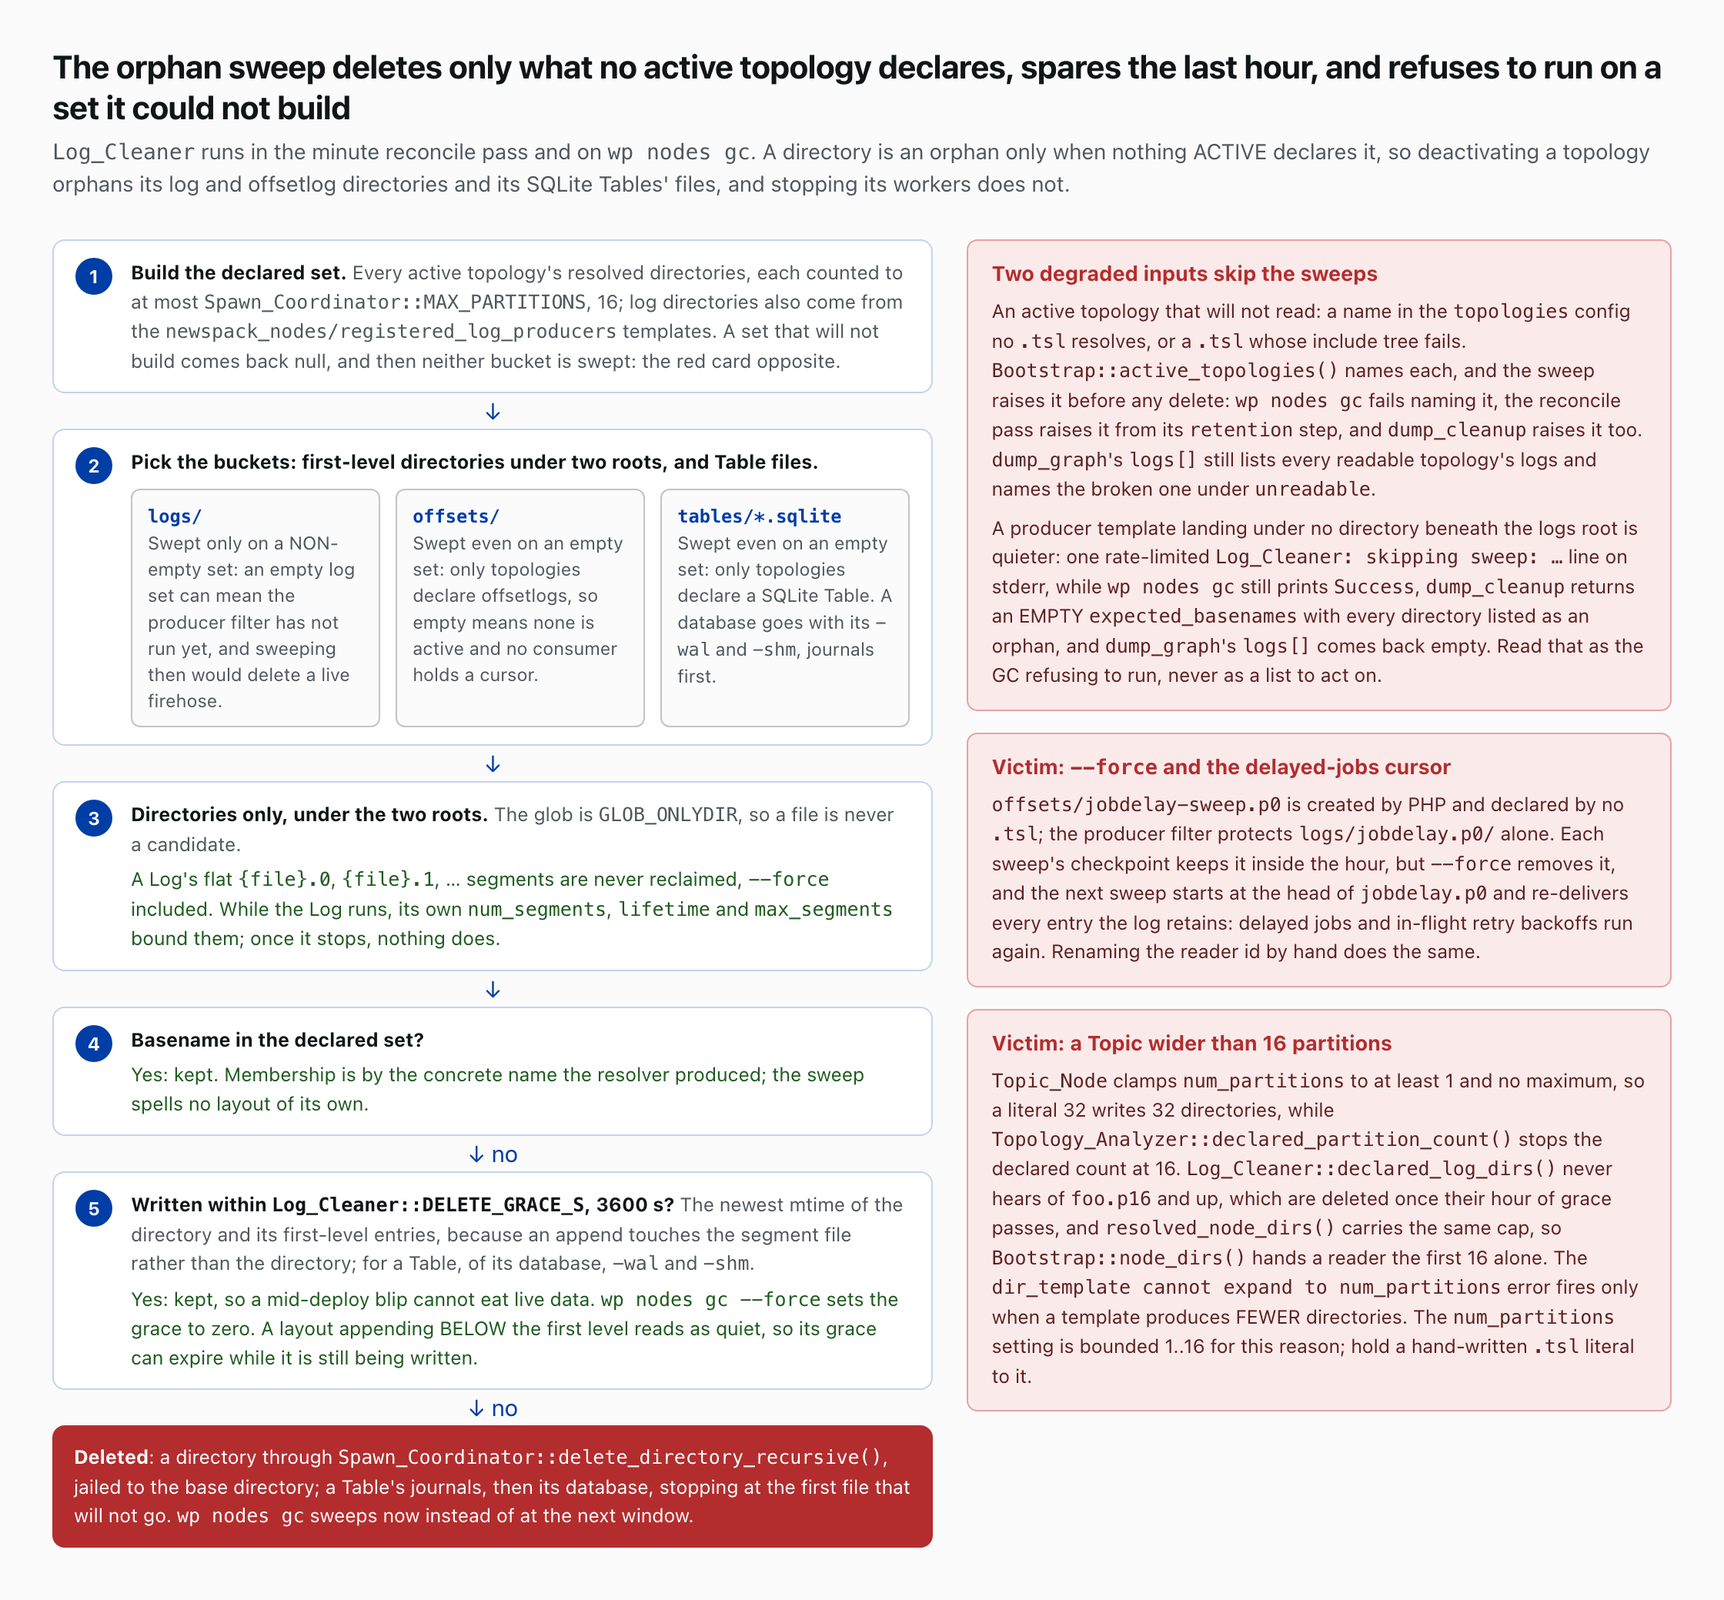
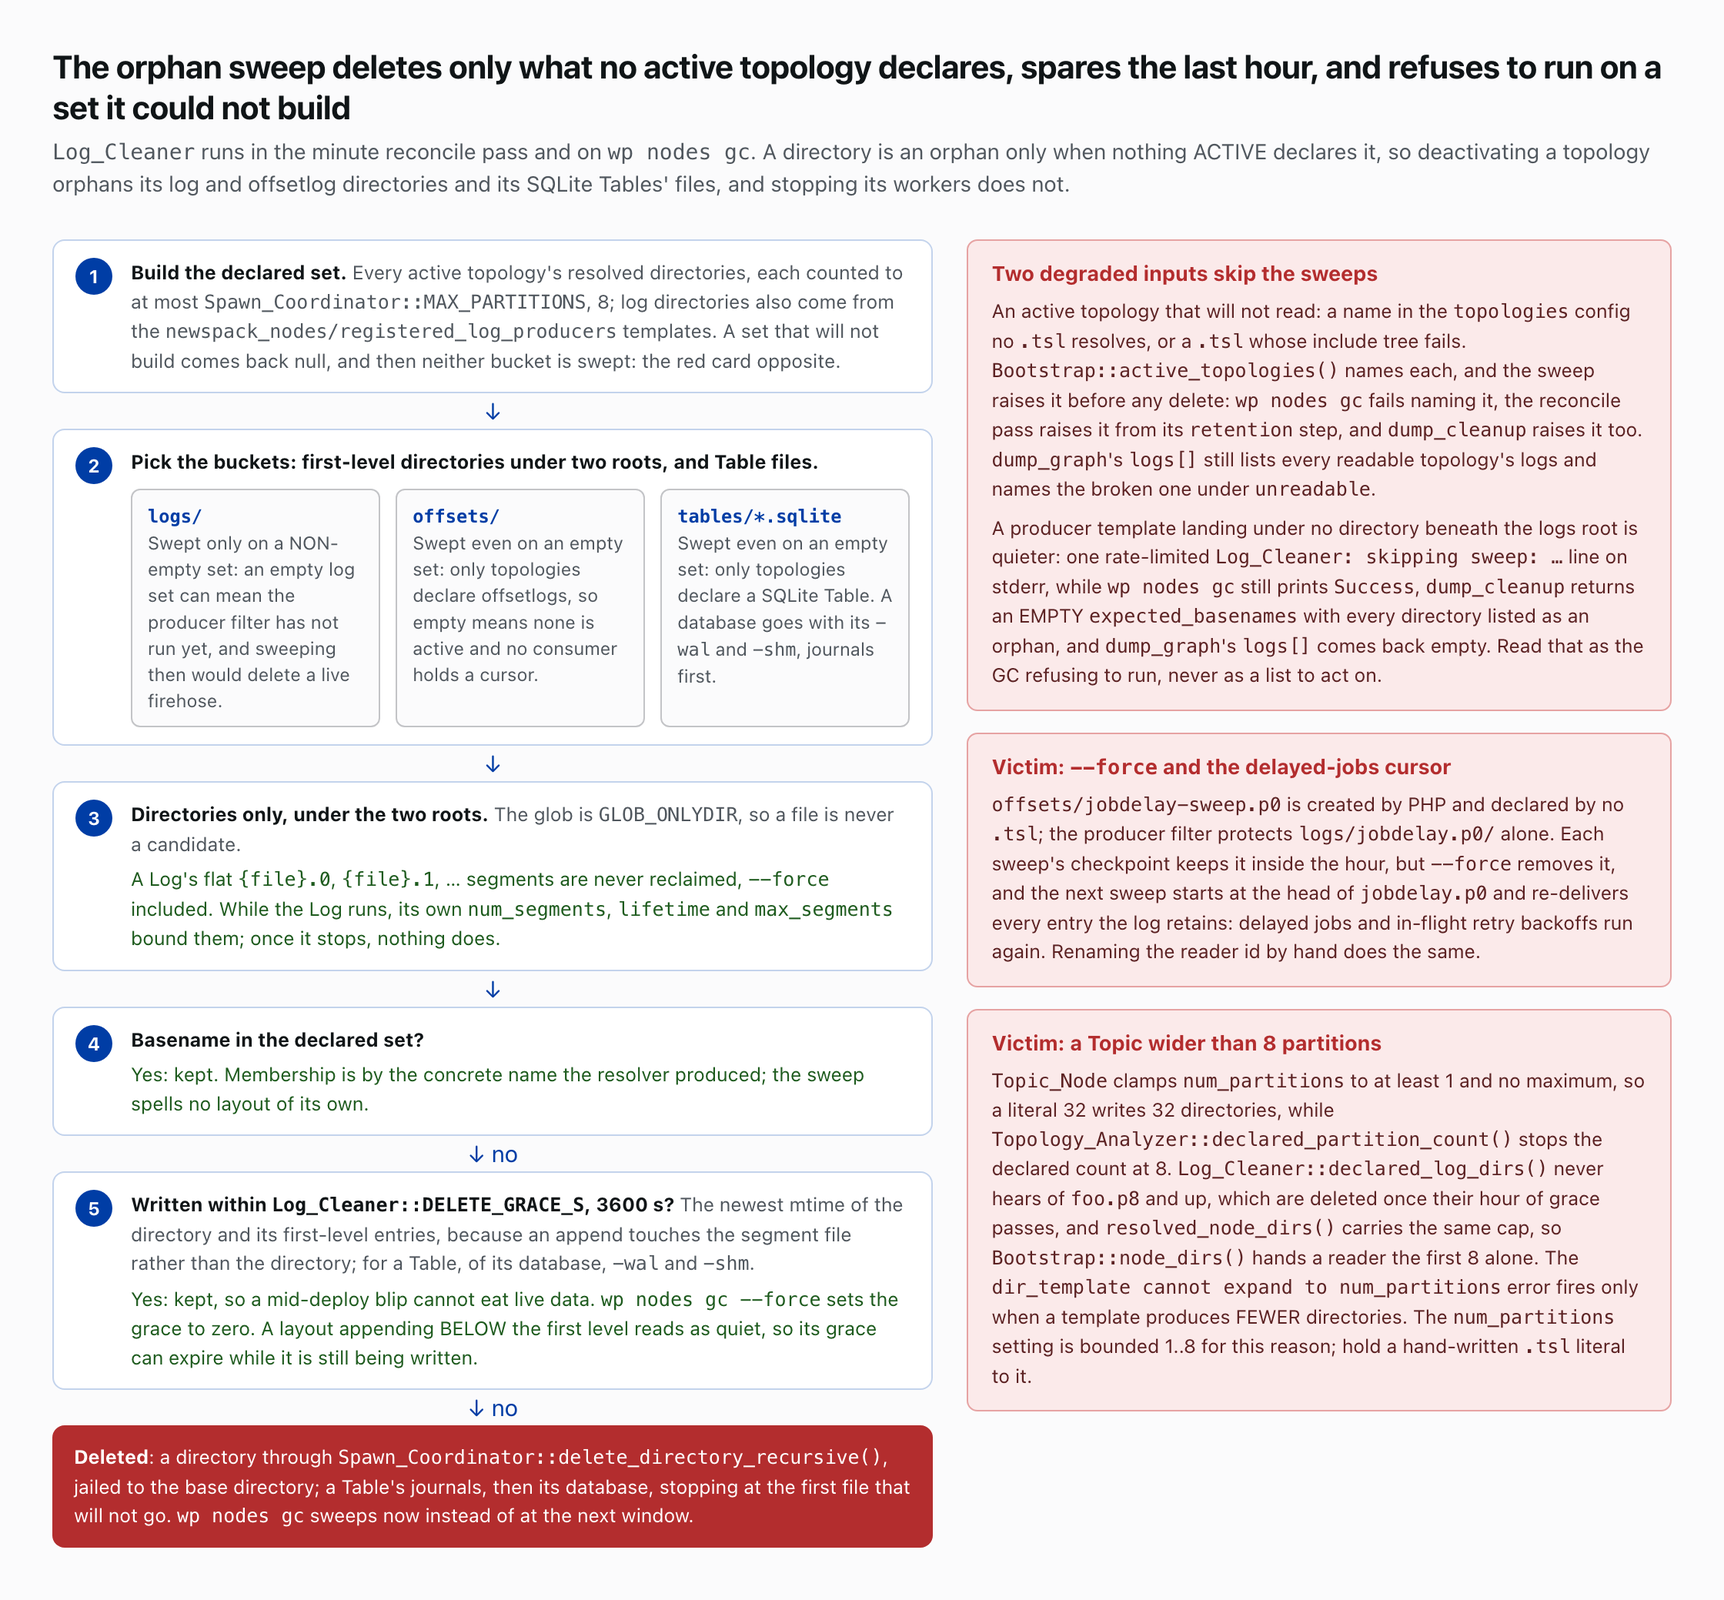
feat(partitions)!: cap num_partitions at 8
A row reader attaches every partition's SQLite file into one connection,
and SQLite attaches at most ten. Spawn_Coordinator::MAX_PARTITIONS drops
from 16 to 8 and the num_partitions field reads it, so the settings page,
the settings verb and every spawn clamp hold one bound.

diff --git a/docs/img/ts-orphan-sweep.html b/docs/img/ts-orphan-sweep.html
@@ -19,7 +19,7 @@
 
 <div class="grid">
 <div>
-  <div class="step"><span class="n">1</span><span><b>Build the declared set.</b> Every active topology's resolved directories, each counted to at most <span class="mono">Spawn_Coordinator::MAX_PARTITIONS</span>, 16; log directories also come from the <span class="mono">newspack_nodes/registered_log_producers</span> templates. A set that will not build comes back null, and then neither bucket is swept: the red card opposite.</span></div>
+  <div class="step"><span class="n">1</span><span><b>Build the declared set.</b> Every active topology's resolved directories, each counted to at most <span class="mono">Spawn_Coordinator::MAX_PARTITIONS</span>, 8; log directories also come from the <span class="mono">newspack_nodes/registered_log_producers</span> templates. A set that will not build comes back null, and then neither bucket is swept: the red card opposite.</span></div>
   <div class="dn">↓</div>
   <div class="step"><span class="n">2</span><span><b>Pick the buckets: first-level directories under two roots, and Table files.</b>
     <span class="buckets">
@@ -48,8 +48,8 @@
     <p><span class="mono">offsets/jobdelay-sweep.p0</span> is created by PHP and declared by no <span class="mono">.tsl</span>; the producer filter protects <span class="mono">logs/jobdelay.p0/</span> alone. Each sweep's checkpoint keeps it inside the hour, but <span class="mono">--force</span> removes it, and the next sweep starts at the head of <span class="mono">jobdelay.p0</span> and re-delivers every entry the log retains: delayed jobs and in-flight retry backoffs run again. Renaming the reader id by hand does the same.</p>
   </div>
   <div class="callout">
-    <h4>Victim: a Topic wider than 16 partitions</h4>
-    <p><span class="mono">Topic_Node</span> clamps <span class="mono">num_partitions</span> to at least 1 and no maximum, so a literal 32 writes 32 directories, while <span class="mono">Topology_Analyzer::declared_partition_count()</span> stops the declared count at 16. <span class="mono">Log_Cleaner::declared_log_dirs()</span> never hears of <span class="mono">foo.p16</span> and up, which are deleted once their hour of grace passes, and <span class="mono">resolved_node_dirs()</span> carries the same cap, so <span class="mono">Bootstrap::node_dirs()</span> hands a reader the first 16 alone. The <span class="mono">dir_template cannot expand to num_partitions</span> error fires only when a template produces FEWER directories. The <span class="mono">num_partitions</span> setting is bounded 1..16 for this reason; hold a hand-written <span class="mono">.tsl</span> literal to it.</p>
+    <h4>Victim: a Topic wider than 8 partitions</h4>
+    <p><span class="mono">Topic_Node</span> clamps <span class="mono">num_partitions</span> to at least 1 and no maximum, so a literal 32 writes 32 directories, while <span class="mono">Topology_Analyzer::declared_partition_count()</span> stops the declared count at 8. <span class="mono">Log_Cleaner::declared_log_dirs()</span> never hears of <span class="mono">foo.p8</span> and up, which are deleted once their hour of grace passes, and <span class="mono">resolved_node_dirs()</span> carries the same cap, so <span class="mono">Bootstrap::node_dirs()</span> hands a reader the first 8 alone. The <span class="mono">dir_template cannot expand to num_partitions</span> error fires only when a template produces FEWER directories. The <span class="mono">num_partitions</span> setting is bounded 1..8 for this reason; hold a hand-written <span class="mono">.tsl</span> literal to it.</p>
   </div>
 </div>
 </div>

diff --git a/docs/img/api-spawn-handshake.html b/docs/img/api-spawn-handshake.html
@@ -47,7 +47,7 @@
 
 <div class="hop" data-span="2,4"><span class="n">4</span><b>Validator B, a person.</b> <span class="mono">Capabilities::can( MANAGE )</span>, then <span class="mono">wp_verify_nonce( $nonce, 'newspack_nodes_spawn_worker' )</span>, then <span class="mono">Rate_Limit::claim()</span>: one slot per user, taken by an atomic cache <span class="mono">add()</span> and held 2 s. Capability comes before the claim, so an unauthenticated burst spends no slots. Neither validator: <span class="red">403 invalid_token</span>; inside 2 s: <span class="red">429 rate_limited</span>; with no shared cache to answer, admitted unmetered with a warning.</div>
 
-<div class="hop deny" data-arrow="2,3" data-cap="authorized" data-span="2,4"><span class="n">5</span>In order: <span class="mono">400 invalid_partition</span> (negative, at or above <span class="mono">MAX_PARTITIONS</span> = 16, or past the type's active count); <span class="mono">409 fleet_held</span> while a deploy hold stands in <span class="mono">Spawn_Coordinator::HOLD_OPTION</span>; <span class="mono">429 spawn_throttled</span> while <span class="mono">{type}|{partition}</span> sits inside the shared 15 s window.</div>
+<div class="hop deny" data-arrow="2,3" data-cap="authorized" data-span="2,4"><span class="n">5</span>In order: <span class="mono">400 invalid_partition</span> (negative, at or above <span class="mono">MAX_PARTITIONS</span> = 8, or past the type's active count); <span class="mono">409 fleet_held</span> while a deploy hold stands in <span class="mono">Spawn_Coordinator::HOLD_OPTION</span>; <span class="mono">429 spawn_throttled</span> while <span class="mono">{type}|{partition}</span> sits inside the shared 15 s window.</div>
 
 <div class="hop run" data-span="2,4"><span class="n">6</span>Accepted. Record the spawn against the 15 s throttle, in memory and in the shared cache at twice the window; <span class="mono">ignore_user_abort( true )</span> and <span class="mono">set_time_limit( 0 )</span>; write <span class="mono">$_SERVER['NEWSPACK_NODES_WORKER_TYPE']</span> and <span class="mono">…_PARTITION</span>; fire <span class="mono">newspack_nodes/spawn_worker( $type, $partition )</span>.</div>
 

diff --git a/docs/img/ag-config-save.html b/docs/img/ag-config-save.html
@@ -40,7 +40,7 @@
 </div>
 
 <div class="doors">
-  <div class="d1"><h4>Door 1 · the settings page</h4><span class="mono">Field::sanitize_callback()</span> CLAMPS a bounded int silently: 900 typed into Num Partitions stores 16 with no notice. Every rendered numeric setting declares an inclusive min and max, and the bounds bind at the two doors alone, never on read.</div>
+  <div class="d1"><h4>Door 1 · the settings page</h4><span class="mono">Field::sanitize_callback()</span> CLAMPS a bounded int silently: 900 typed into Num Partitions stores 8 with no notice. Every rendered numeric setting declares an inclusive min and max, and the bounds bind at the two doors alone, never on read.</div>
   <div class="d2"><h4>Door 2 · the <span class="mono">settings</span> verb</h4><span class="mono">Settings_CI_Node::cmd_set()</span> REFUSES with <span class="mono">invalid value for setting: &lt;key&gt;</span>, because a programmatic caller must be told rather than handed another number. A <span class="mono">set</span> to the value already stored is a no-op, so Settings_Sync's sweep never recycles the fleet.</div>
   <div class="d3"><h4>No door · a file or a direct option write</h4>Taken as written, and nothing clamps it: <span class="mono">Partition_Node</span> throws only below a <span class="mono">segment_size</span> of 1, so a config file naming 5 gives five-byte segments. <span class="mono">SSE_Slot_Pool</span> is the one family that re-clamps on read.</div>
 </div>

diff --git a/src/topology-console/components/__tests__/TopologySettingsPanel.test.js b/src/topology-console/components/__tests__/TopologySettingsPanel.test.js
@@ -117,12 +117,12 @@ describe( 'TopologySettingsPanel', () => {
 		expect( input.getAttribute( 'placeholder' ) ).toBe( '2' );
 	} );
 
-	it( 'clamps partitions to 1..16 and commits', () => {
+	it( 'clamps partitions to 1..8 and commits', () => {
 		const { interpreter } = setup( {} );
 		fireEvent.change( screen.getByLabelText( /partitions/i ), {
-			target: { value: '99' },
+			target: { value: '13' },
 		} );
-		expect( interpreter.frontmatter ).toEqual( { num_partitions: '16' } );
+		expect( interpreter.frontmatter ).toEqual( { num_partitions: '8' } );
 	} );
 
 	it( 'clearing partitions removes the key (config default)', () => {

diff --git a/src/topology-console/components/TopologySettingsPanel.js b/src/topology-console/components/TopologySettingsPanel.js
@@ -48,7 +48,7 @@ const NAME_RE = /^[a-zA-Z_][a-zA-Z0-9_]*$/;
  * `Bootstrap` clamps to it while expanding workers, so a larger declared count
  * spawns nothing extra and only misleads whoever reads the file.
  */
-const MAX_PARTITIONS = 16;
+const MAX_PARTITIONS = 8;
 
 /**
  * The frontmatter map as `[ name, value ]` pairs, in the map's own order.

diff --git a/tests/unit/Admin/AdminTest.php b/tests/unit/Admin/AdminTest.php
@@ -159,10 +159,10 @@ class AdminTest extends TestCase {
 
 		$cb = $GLOBALS['_registered_settings']['newspack_nodes_num_partitions']['args']['sanitize_callback'];
 
-		$this->assertSame( 16, \call_user_func( $cb, '4177' ), 'above max must clamp to the declared max' );
+		$this->assertSame( 8, \call_user_func( $cb, '4177' ), 'above max must clamp to the declared max' );
 		$this->assertSame( 1, \call_user_func( $cb, '0' ), 'below min must clamp to the declared min' );
 		$this->assertSame( 1, \call_user_func( $cb, '-9' ) );
-		$this->assertSame( 9, \call_user_func( $cb, '9' ), 'an in-range value passes through' );
+		$this->assertSame( 7, \call_user_func( $cb, '7' ), 'an in-range value passes through' );
 	}
 
 	public function test_register_settings_clamps_the_remote_options_from_the_same_declaration(): void {
@@ -751,7 +751,7 @@ public function test_storage_section_callback_outputs_paragraph(): void {
 		$this->assertStringContainsString( 'max="' . \PHP_INT_MAX . '"', $html );
 	}
 
-	// ---- num_partitions_callback (render_number_field, max=16 → small-text) --
+	// ---- num_partitions_callback (render_number_field, max=8 → small-text) --
 
 	public function test_num_partitions_callback_renders_number_input_with_bounds(): void {
 		$admin = new Admin();
@@ -764,7 +764,7 @@ public function test_storage_section_callback_outputs_paragraph(): void {
 		$this->assertStringContainsString( 'name="newspack_nodes_num_partitions"', $html );
 		$this->assertStringContainsString( 'id="num_partitions"', $html );
 		$this->assertStringContainsString( 'min="1"', $html );
-		$this->assertStringContainsString( 'max="16"', $html );
+		$this->assertStringContainsString( 'max="8"', $html );
 		// max <= 999 → small-text input class.
 		$this->assertStringContainsString( 'class="small-text"', $html );
 		// Per-field reset toggle.

diff --git a/tests/unit/SpawnCoordinatorTest.php b/tests/unit/SpawnCoordinatorTest.php
@@ -259,7 +259,7 @@ class SpawnCoordinatorTest extends TestCase {
 
 	public function test_constants_match_spec(): void {
 		$this->assertSame( 15, Spawn_Coordinator::MIN_SPAWN_INTERVAL_S );
-		$this->assertSame( 16, Spawn_Coordinator::MAX_PARTITIONS );
+		$this->assertSame( 8, Spawn_Coordinator::MAX_PARTITIONS );
 	}
 
 	// ── worker_needs_spawn: heartbeat-missing-but-dir-exists ─────────────
@@ -787,12 +787,12 @@ class SpawnCoordinatorTest extends TestCase {
 			'cold-start-workers' => [ 'num_partitions' => 1, 'topology' => '/cs.tsl' ],
 		] );
 		\mkdir( "{$this->tmp}/locks/retired-type.p0.lock.d", 0755, true );
-		\mkdir( "{$this->tmp}/locks/retired-type.p9.lock.d", 0755, true );
+		\mkdir( "{$this->tmp}/locks/retired-type.p7.lock.d", 0755, true );
 
 		( new Spawn_Coordinator( $this->tmp ) )->kill_readers( [ 'retired-type' ] );
 
 		$this->assertTrue( \Newspack_Nodes\Lock_Node::is_restart_pending( "{$this->tmp}/locks/retired-type.p0.lock.d" ) );
-		$this->assertTrue( \Newspack_Nodes\Lock_Node::is_restart_pending( "{$this->tmp}/locks/retired-type.p9.lock.d" ) );
+		$this->assertTrue( \Newspack_Nodes\Lock_Node::is_restart_pending( "{$this->tmp}/locks/retired-type.p7.lock.d" ) );
 	}
 
 	// ── the deploy hold ───────────────────────────────────────────────────

diff --git a/tests/unit/FleetNodeTest.php b/tests/unit/FleetNodeTest.php
@@ -127,9 +127,9 @@ class FleetNodeTest extends TestCase {
 	}
 
 	public function test_a_router_tick_inside_the_scan_interval_does_not_rescan(): void {
-		// Twelve partitions down against a four-per-pass cap: a second pass two
+		// Seven partitions down against a four-per-pass cap: a second pass two
 		// seconds later would post four MORE. Only the timer holds it at four.
-		$this->with_topology( [ 'ledger-workers' => [ 'num_partitions' => 12, 'topology' => '/ledger.php' ] ] );
+		$this->with_topology( [ 'ledger-workers' => [ 'num_partitions' => 7, 'topology' => '/ledger.php' ] ] );
 		$fleet = $this->mount_fleet();
 		$start = 1893456123.0;
 
@@ -208,7 +208,7 @@ class FleetNodeTest extends TestCase {
 		// Each POST is a BLOCKING curl (250ms). Unbounded, a cold fleet would
 		// spend the whole tick in syscalls instead of draining messages.
 		$this->with_topology( [
-			'ledger-workers' => [ 'num_partitions' => 12, 'topology' => '/ledger.php' ],
+			'ledger-workers' => [ 'num_partitions' => 7, 'topology' => '/ledger.php' ],
 		] );
 
 		Core::right_now();

diff --git a/tests/unit/WorkersCITest.php b/tests/unit/WorkersCITest.php
@@ -998,7 +998,7 @@ class WorkersCITest extends TestCase {
 		$this->assertSame( 'down', $states['job-workers'] );
 	}
 
-	public function test_collect_dump_metadata_reads_the_topologies_as_often_for_nine_slots_as_for_three(): void {
+	public function test_collect_dump_metadata_reads_the_topologies_as_often_for_eight_slots_as_for_three(): void {
 		$this->arrange_base_dir();
 		$partitions = 3;
 		\add_filter(
@@ -1022,12 +1022,12 @@ class WorkersCITest extends TestCase {
 
 		$three       = self::dump_metadata();
 		$reads_three = $reads;
-		$partitions  = 9;
+		$partitions  = 8;
 		$reads       = 0;
-		$nine        = self::dump_metadata();
+		$eight       = self::dump_metadata();
 
 		$idle = static fn ( array $meta ): int => \count( \array_filter( $meta['workers'], static fn ( $w ) => 'idle' === $w['state'] ) );
-		$this->assertSame( [ 3, 9 ], [ $idle( $three ), $idle( $nine ) ] );
+		$this->assertSame( [ 3, 8 ], [ $idle( $three ), $idle( $eight ) ] );
 		$this->assertSame( $reads_three, $reads, 'classifying the slots costs no catalog read per slot' );
 	}
 

diff --git a/tests/unit/TopologyRegistryRegisterPluginTest.php b/tests/unit/TopologyRegistryRegisterPluginTest.php
@@ -134,16 +134,16 @@ class TopologyRegistryRegisterPluginTest extends TestCase {
 		$this->assertSame( 4, $catalog['widget']['num_partitions'], 'omitted num_partitions resolves to the substrate option' );
 	}
 
-	public function test_catalog_num_partitions_clamps_to_16(): void {
+	public function test_catalog_num_partitions_clamps_to_8(): void {
 		$dir = $this->make_temp_dir();
 		$this->seed_topology( $dir, 'widget' );
-		\update_option( 'newspack_nodes_num_partitions', 99 );
+		\update_option( 'newspack_nodes_num_partitions', 13 );
 		\Newspack_Nodes\Config::reset();
 		Topology_Registry::register_plugin( 'Acme\\', $dir );
 
 		$catalog = \apply_filters( 'newspack_nodes/topologies', [] );
 
-		$this->assertSame( 16, $catalog['widget']['num_partitions'], 'num_partitions clamps to 16' );
+		$this->assertSame( 8, $catalog['widget']['num_partitions'], 'num_partitions clamps to 8' );
 	}
 
 	// ── spawn_worker: ungated, driven by the active set ───────────────────

diff --git a/tests/unit/LogCleanerTest.php b/tests/unit/LogCleanerTest.php
@@ -777,14 +777,14 @@ class LogCleanerTest extends TestCase {
 	/**
 	 * The GC clamped `num_partitions` to MAX_PARTITIONS while every PRODUCER
 	 * clamped it differently — `Job_Intake` and ELN's `Log_Manager` applied no
-	 * upper bound at all. Above the cap, producers wrote `jobintake.p16`+ that
+	 * upper bound at all. Above the cap, producers wrote `jobintake.p8`+ that
 	 * the declared set never enumerated, so the sweep deleted them one
 	 * DELETE_GRACE_S after their last write: live-data deletion past both of
 	 * the GC's fail-closed gates, since the root resolves and the set is
 	 * non-empty.
 	 *
 	 * The invariant is agreement — whatever a producer can write, the GC
-	 * declares. 21 is deliberately above MAX_PARTITIONS (16), so a producer
+	 * declares. 21 is deliberately above MAX_PARTITIONS (8), so a producer
 	 * that ignores the cap and one that honours it give different answers.
 	 */
 	public function test_every_partition_a_producer_writes_is_declared(): void {

diff --git a/tests/unit/SettingsCITest.php b/tests/unit/SettingsCITest.php
@@ -205,6 +205,13 @@ class SettingsCITest extends TestCase {
 		$this->assertSame( 13, $result['num_segments'] );
 	}
 
+	public function test_set_verb_refuses_nine_partitions(): void {
+		$result = VerbHarness::fire( new Settings_CI_Node(), 'settings', 'set', 'num_partitions 9' );
+
+		$this->assertIsString( $result );
+		$this->assertStringContainsString( 'invalid value for setting', $result );
+	}
+
 	public function test_set_verb_rejects_a_value_outside_the_declared_bounds(): void {
 		$interpreter = new Settings_CI_Node();
 		$result      = VerbHarness::fire( $interpreter, 'settings', 'set', 'max_segments ' . \PHP_INT_MAX );
